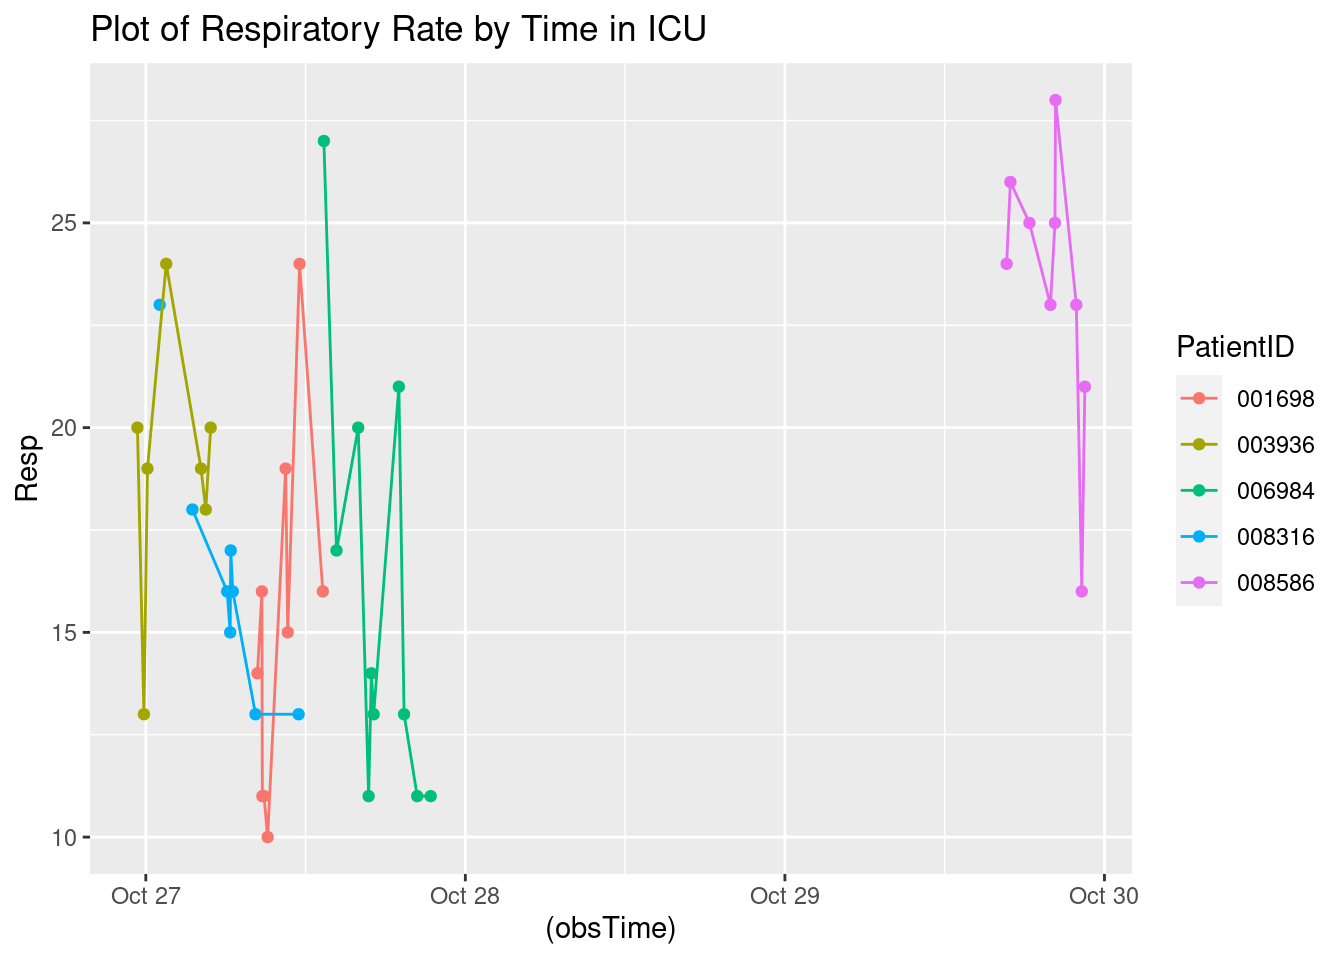
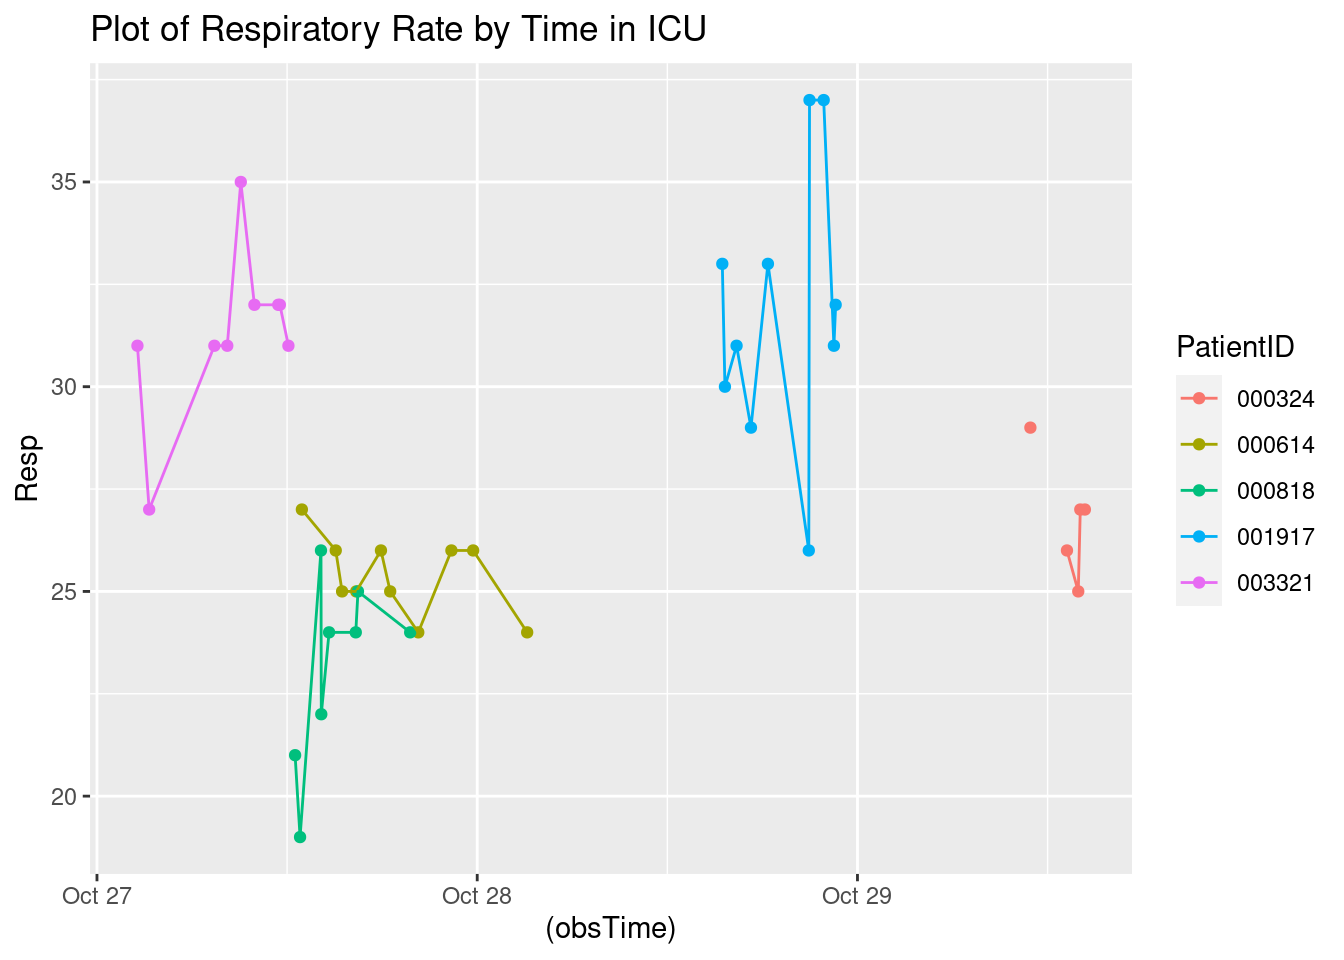
Updated report

diff --git a/A7.html b/A7.html
@@ -114,7 +114,7 @@ pre > code.sourceCode > span > a:first-child::before { text-decoration: underlin
 </div>
 <div class="sourceCode cell-code" id="cb4"><pre class="sourceCode r code-with-copy"><code class="sourceCode r"><span id="cb4-1"><a href="#cb4-1" aria-hidden="true" tabindex="-1"></a><span class="fu">toc</span>()</span></code><button title="Copy to Clipboard" class="code-copy-button"><i class="bi"></i></button></pre></div>
 <div class="cell-output cell-output-stdout">
-<pre><code>5.353 sec elapsed</code></pre>
+<pre><code>5.061 sec elapsed</code></pre>
 </div>
 <div class="sourceCode cell-code" id="cb6"><pre class="sourceCode r code-with-copy"><code class="sourceCode r"><span id="cb6-1"><a href="#cb6-1" aria-hidden="true" tabindex="-1"></a><span class="fu">tic</span>()</span>
 <span id="cb6-2"><a href="#cb6-2" aria-hidden="true" tabindex="-1"></a>test1<span class="ot">=</span><span class="fu">makeSepsisDataset</span>(<span class="at">n=</span><span class="dv">50</span>,<span class="at">read_fn =</span> <span class="st">"read_delim"</span>)</span>
@@ -124,7 +124,7 @@ pre > code.sourceCode > span > a:first-child::before { text-decoration: underlin
 </div>
 <div class="sourceCode cell-code" id="cb8"><pre class="sourceCode r code-with-copy"><code class="sourceCode r"><span id="cb8-1"><a href="#cb8-1" aria-hidden="true" tabindex="-1"></a><span class="fu">toc</span>()</span></code><button title="Copy to Clipboard" class="code-copy-button"><i class="bi"></i></button></pre></div>
 <div class="cell-output cell-output-stdout">
-<pre><code>20.962 sec elapsed</code></pre>
+<pre><code>18.679 sec elapsed</code></pre>
 </div>
 <div class="sourceCode cell-code" id="cb10"><pre class="sourceCode r code-with-copy"><code class="sourceCode r"><span id="cb10-1"><a href="#cb10-1" aria-hidden="true" tabindex="-1"></a><span class="co"># n=100</span></span>
 <span id="cb10-2"><a href="#cb10-2" aria-hidden="true" tabindex="-1"></a><span class="fu">tic</span>()</span>
@@ -135,7 +135,7 @@ pre > code.sourceCode > span > a:first-child::before { text-decoration: underlin
 </div>
 <div class="sourceCode cell-code" id="cb12"><pre class="sourceCode r code-with-copy"><code class="sourceCode r"><span id="cb12-1"><a href="#cb12-1" aria-hidden="true" tabindex="-1"></a><span class="fu">toc</span>()</span></code><button title="Copy to Clipboard" class="code-copy-button"><i class="bi"></i></button></pre></div>
 <div class="cell-output cell-output-stdout">
-<pre><code>9.44 sec elapsed</code></pre>
+<pre><code>8.764 sec elapsed</code></pre>
 </div>
 <div class="sourceCode cell-code" id="cb14"><pre class="sourceCode r code-with-copy"><code class="sourceCode r"><span id="cb14-1"><a href="#cb14-1" aria-hidden="true" tabindex="-1"></a><span class="fu">tic</span>()</span>
 <span id="cb14-2"><a href="#cb14-2" aria-hidden="true" tabindex="-1"></a>test1<span class="ot">=</span><span class="fu">makeSepsisDataset</span>(<span class="at">n=</span><span class="dv">100</span>,<span class="at">read_fn =</span> <span class="st">"read_delim"</span>)</span>
@@ -145,7 +145,7 @@ pre > code.sourceCode > span > a:first-child::before { text-decoration: underlin
 </div>
 <div class="sourceCode cell-code" id="cb16"><pre class="sourceCode r code-with-copy"><code class="sourceCode r"><span id="cb16-1"><a href="#cb16-1" aria-hidden="true" tabindex="-1"></a><span class="fu">toc</span>()</span></code><button title="Copy to Clipboard" class="code-copy-button"><i class="bi"></i></button></pre></div>
 <div class="cell-output cell-output-stdout">
-<pre><code>38.808 sec elapsed</code></pre>
+<pre><code>34.341 sec elapsed</code></pre>
 </div>
 <div class="sourceCode cell-code" id="cb18"><pre class="sourceCode r code-with-copy"><code class="sourceCode r"><span id="cb18-1"><a href="#cb18-1" aria-hidden="true" tabindex="-1"></a><span class="co"># n=500</span></span>
 <span id="cb18-2"><a href="#cb18-2" aria-hidden="true" tabindex="-1"></a><span class="fu">tic</span>()</span>
@@ -156,7 +156,7 @@ pre > code.sourceCode > span > a:first-child::before { text-decoration: underlin
 </div>
 <div class="sourceCode cell-code" id="cb20"><pre class="sourceCode r code-with-copy"><code class="sourceCode r"><span id="cb20-1"><a href="#cb20-1" aria-hidden="true" tabindex="-1"></a><span class="fu">toc</span>()</span></code><button title="Copy to Clipboard" class="code-copy-button"><i class="bi"></i></button></pre></div>
 <div class="cell-output cell-output-stdout">
-<pre><code>47.312 sec elapsed</code></pre>
+<pre><code>44.183 sec elapsed</code></pre>
 </div>
 <div class="sourceCode cell-code" id="cb22"><pre class="sourceCode r code-with-copy"><code class="sourceCode r"><span id="cb22-1"><a href="#cb22-1" aria-hidden="true" tabindex="-1"></a><span class="fu">tic</span>()</span>
 <span id="cb22-2"><a href="#cb22-2" aria-hidden="true" tabindex="-1"></a>test1<span class="ot">=</span><span class="fu">makeSepsisDataset</span>(<span class="at">n=</span><span class="dv">500</span>,<span class="at">read_fn =</span> <span class="st">"read_delim"</span>)</span>
@@ -166,7 +166,7 @@ pre > code.sourceCode > span > a:first-child::before { text-decoration: underlin
 </div>
 <div class="sourceCode cell-code" id="cb24"><pre class="sourceCode r code-with-copy"><code class="sourceCode r"><span id="cb24-1"><a href="#cb24-1" aria-hidden="true" tabindex="-1"></a><span class="fu">toc</span>()</span></code><button title="Copy to Clipboard" class="code-copy-button"><i class="bi"></i></button></pre></div>
 <div class="cell-output cell-output-stdout">
-<pre><code>195.162 sec elapsed</code></pre>
+<pre><code>171.94 sec elapsed</code></pre>
 </div>
 </div>
 <p><strong>Task 3</strong></p>
@@ -192,7 +192,7 @@ pre > code.sourceCode > span > a:first-child::before { text-decoration: underlin
 <span id="cb28-4"><a href="#cb28-4" aria-hidden="true" tabindex="-1"></a></span>
 <span id="cb28-5"><a href="#cb28-5" aria-hidden="true" tabindex="-1"></a><span class="fu">Sys.time</span>()</span></code><button title="Copy to Clipboard" class="code-copy-button"><i class="bi"></i></button></pre></div>
 <div class="cell-output cell-output-stdout">
-<pre><code>[1] "2023-10-26 23:22:21 UTC"</code></pre>
+<pre><code>[1] "2023-10-27 01:13:25 UTC"</code></pre>
 </div>
 <div class="sourceCode cell-code" id="cb30"><pre class="sourceCode r code-with-copy"><code class="sourceCode r"><span id="cb30-1"><a href="#cb30-1" aria-hidden="true" tabindex="-1"></a>dfnew <span class="ot">&lt;-</span> df <span class="sc">%&gt;%</span></span>
 <span id="cb30-2"><a href="#cb30-2" aria-hidden="true" tabindex="-1"></a>  <span class="fu">subset</span>(SepsisLabel<span class="sc">==</span><span class="dv">1</span>)</span>
@@ -221,49 +221,49 @@ pre > code.sourceCode > span > a:first-child::before { text-decoration: underlin
 </thead>
 <tbody>
 <tr class="odd">
-<td style="text-align: left;">001698</td>
-<td style="text-align: right;">14</td>
-<td style="text-align: right;">86</td>
+<td style="text-align: left;">000324</td>
+<td style="text-align: right;">62</td>
+<td style="text-align: right;">99</td>
 <td style="text-align: right;">NA</td>
-<td style="text-align: right;">16</td>
+<td style="text-align: right;">27</td>
 <td style="text-align: right;">1</td>
-<td style="text-align: left;">2023-10-27 13:17:45</td>
+<td style="text-align: left;">2023-10-29 14:21:12</td>
 </tr>
 <tr class="even">
-<td style="text-align: left;">003936</td>
-<td style="text-align: right;">6</td>
-<td style="text-align: right;">81</td>
+<td style="text-align: left;">000614</td>
+<td style="text-align: right;">26</td>
+<td style="text-align: right;">104</td>
 <td style="text-align: right;">NA</td>
+<td style="text-align: right;">24</td>
+<td style="text-align: right;">1</td>
+<td style="text-align: left;">2023-10-28 03:09:10</td>
+</tr>
+<tr class="odd">
+<td style="text-align: left;">000818</td>
 <td style="text-align: right;">20</td>
-<td style="text-align: right;">1</td>
-<td style="text-align: left;">2023-10-27 04:52:26</td>
-</tr>
-<tr class="odd">
-<td style="text-align: left;">006984</td>
-<td style="text-align: right;">23</td>
-<td style="text-align: right;">86</td>
+<td style="text-align: right;">116</td>
 <td style="text-align: right;">NA</td>
-<td style="text-align: right;">11</td>
+<td style="text-align: right;">24</td>
 <td style="text-align: right;">1</td>
-<td style="text-align: left;">2023-10-27 21:23:47</td>
+<td style="text-align: left;">2023-10-27 19:46:07</td>
 </tr>
 <tr class="even">
-<td style="text-align: left;">008316</td>
-<td style="text-align: right;">14</td>
-<td style="text-align: right;">80</td>
-<td style="text-align: right;">NA</td>
-<td style="text-align: right;">13</td>
+<td style="text-align: left;">001917</td>
+<td style="text-align: right;">46</td>
+<td style="text-align: right;">84</td>
+<td style="text-align: right;">38.11</td>
+<td style="text-align: right;">32</td>
 <td style="text-align: right;">1</td>
-<td style="text-align: left;">2023-10-27 11:28:43</td>
+<td style="text-align: left;">2023-10-28 22:37:24</td>
 </tr>
 <tr class="odd">
-<td style="text-align: left;">008586</td>
-<td style="text-align: right;">75</td>
-<td style="text-align: right;">54</td>
-<td style="text-align: right;">36.3</td>
-<td style="text-align: right;">21</td>
+<td style="text-align: left;">003321</td>
+<td style="text-align: right;">11</td>
+<td style="text-align: right;">91</td>
+<td style="text-align: right;">37.44</td>
+<td style="text-align: right;">31</td>
 <td style="text-align: right;">1</td>
-<td style="text-align: left;">2023-10-29 22:31:47</td>
+<td style="text-align: left;">2023-10-27 12:05:00</td>
 </tr>
 </tbody>
 </table>
